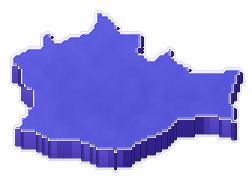
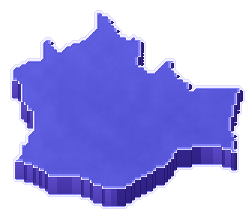
fix(mapa-dalias): cono simétrico solo en clic y proporción estandarizada de islas

diff --git a/apps/web/src/features/mapa-dalias/StateHologramCard.tsx b/apps/web/src/features/mapa-dalias/StateHologramCard.tsx
@@ -80,12 +80,12 @@ function computeHoloLayout(
   const stateSpanW = Math.max(14, (bMaxX - bMinX) * sx);
   const stateSpanH = Math.max(10, (bMaxY - bMinY) * sy);
 
-  const ax = state.anchor.x * sx;
-  const ay = (state.anchor.y - liftLogicalPx) * sy;
+  const rawAx = state.anchor.x * sx;
+  const rawAy = (state.anchor.y - liftLogicalPx) * sy;
 
-  // Escala de la isla voxel ampliada (~26-28% del ancho del mapa, respetando su proporción)
+  // Escala estandarizada de la isla voxel ampliada (~25-28% del mapa para ancho uniforme de lectura)
   const aspect = meta.height / meta.width;
-  const targetMaxDim = Math.min(295, Math.max(185, cw * 0.265));
+  const targetMaxDim = Math.min(290, Math.max(190, cw * 0.26));
   let w: number;
   let h: number;
   if (aspect >= 1) {
@@ -96,40 +96,45 @@ function computeHoloLayout(
     h = w * aspect;
   }
 
-  // Zona segura dentro del contenedor del mapa (evita logo INE arriba-izquierda y menú arriba-derecha)
-  const padX = Math.max(16, cw * 0.03);
-  const safeTopMin = Math.max(16, ch * 0.04);
-  const safeTopMax = Math.max(safeTopMin, ch - h - 12);
-  const beamGap = Math.max(46, ch * 0.115);
+  // Zona segura dentro del contenedor del mapa
+  const padX = Math.max(18, cw * 0.03);
+  const safeTopMin = Math.max(18, ch * 0.035);
+  const safeTopMax = Math.max(safeTopMin, ch - h - 14);
+  const beamGap = Math.max(44, ch * 0.11);
 
   let left: number;
   let top: number;
+  let ax = rawAx;
+  let ay = rawAy;
 
-  // Si el estado está en la mitad superior (ej. BC, Sonora, Chihuahua, Coahuila, NL, Sinaloa),
-  // proyectar lateralmente hacia el interior del mapa dentro de la franja vertical segura
-  const canFitAbove = ay - h - beamGap >= safeTopMin;
+  const canFitAbove = rawAy - h - beamGap >= safeTopMin;
 
   if (canFitAbove) {
+    // Caso estándar: la isla flota directamente arriba con el cono vertical
     const shiftX =
-      ax < cw * 0.36
-        ? w * 0.34
-        : ax > cw * 0.68
-        ? -w * 0.34
-        : w * 0.22;
-    left = Math.min(Math.max(padX, ax - w / 2 + shiftX), cw - w - padX);
-    top = Math.min(safeTopMax, Math.max(safeTopMin, ay - h - beamGap));
+      rawAx < cw * 0.36
+        ? w * 0.32
+        : rawAx > cw * 0.68
+        ? -w * 0.32
+        : w * 0.18;
+    left = Math.min(Math.max(padX, rawAx - w / 2 + shiftX), cw - w - padX);
+    top = Math.min(safeTopMax, Math.max(safeTopMin, rawAy - h - beamGap));
   } else {
-    const goRight = ax < cw * 0.52;
-    const horizGap = Math.max(54, cw * 0.065);
-    left = goRight
-      ? Math.min(cw - w - padX, ax + stateSpanW * 0.45 + horizGap)
-      : Math.max(padX, ax - stateSpanW * 0.45 - horizGap - w);
-    // Para estados muy arriba (BC, Sonora), bajar ligeramente la tarjeta hacia el centro
-    const idealTop = ay < ch * 0.28 ? ay + ch * 0.02 : ay - h * 0.42;
-    top = Math.min(safeTopMax, Math.max(safeTopMin, idealTop));
+    // Estados del norte (BC, Sonora, Chihuahua, Coahuila):
+    // 1) Anclar la base del haz en la mitad/tercio inferior del estado en el mapa para que el haz SIEMPRE suba
+    ay = Math.max(rawAy, ((bMinY + bMaxY * 2) / 3 - liftLogicalPx) * sy);
+    // 2) Colocar la isla en la zona segura superior, desplazada al interior (evita el logo INE a la izquierda)
+    const goRight = rawAx < cw * 0.52;
+    const horizGap = Math.max(35, cw * 0.045);
+    left = Math.round(
+      goRight
+        ? Math.min(cw - w - padX, rawAx + stateSpanW * 0.45 + horizGap)
+        : Math.max(padX, rawAx - stateSpanW * 0.45 - horizGap - w)
+    );
+    top = Math.round(safeTopMin + 4);
   }
 
-  // Eje central desde el ancla del estado en el mapa (A) hasta el polo visual de la pieza ampliada (C)
+  // Eje central desde la base del estado en el mapa (A) hasta el polo visual de la pieza ampliada (C)
   const cx = left + meta.visualCenter[0] * w;
   const cy = top + meta.visualCenter[1] * h;
 
@@ -143,14 +148,14 @@ function computeHoloLayout(
   const ny = ux;
 
   // Ancho en la base (proporcional al estado en el mapa, acotado para simetría limpia)
-  const rBase = Math.min(Math.max(12, Math.min(stateSpanW, stateSpanH) * 0.34), 24);
+  const rBase = Math.min(Math.max(12, Math.min(stateSpanW, stateSpanH) * 0.34), 22);
   // Ancho en el destino (dentro de la silueta sólida de la pieza ampliada)
   const radiusRatio = meta.coneRadiusRatio ?? 0.32;
   const rTop = Math.min(w, h) * radiusRatio;
 
   // Detener el eje ligeramente antes del centro visual para que el cono quede cubierto por la silueta
-  const tx = cx - ux * (rTop * 0.12);
-  const ty = cy - uy * (rTop * 0.12);
+  const tx = cx - ux * (rTop * 0.14);
+  const ty = cy - uy * (rTop * 0.14);
 
   const baseLeft: [number, number] = [ax - nx * rBase, ay - ny * rBase];
   const baseRight: [number, number] = [ax + nx * rBase, ay + ny * rBase];
@@ -180,9 +185,9 @@ export interface StateHologramCardProps {
 }
 
 export function StateHologramCard({ children, className }: StateHologramCardProps) {
-  const { data, selectedStateId, hoveredStateId } = usePixelMapContext();
-  const activeId = hoveredStateId || selectedStateId;
-  const state = data && activeId ? data.stateById.get(activeId) ?? null : null;
+  const { data, selectedStateId } = usePixelMapContext();
+  // El cono de luz y la proyección holográfica se activan ÚNICAMENTE al hacer clic (seleccionar un estado)
+  const state = data && selectedStateId ? data.stateById.get(selectedStateId) ?? null : null;
 
   const rootRef = useRef<HTMLDivElement>(null);
   const [size, setSize] = useState<{ w: number; h: number }>({ w: 0, h: 0 });

diff --git a/scripts/build-holos.ts b/scripts/build-holos.ts
@@ -176,10 +176,20 @@ function buildSingleStateHolo(st: StateGeo): { rgba: Buffer; OW: number; OH: num
 
   const spanX = Math.max(1e-6, maxX - minX);
   const spanY = Math.max(1e-6, maxY - minY);
-  const scale = TARGET_VOXEL_SPAN / Math.max(spanX, spanY);
+  const rawAspect = spanX / spanY;
 
-  const voxW = Math.max(24, Math.ceil(spanX * scale));
-  const voxH = Math.max(24, Math.ceil(spanY * scale));
+  // Estrategia A: Estandarización de proporción para zona de lectura (~260x230 px)
+  // Ensanchar la proporción horizontal de estados angostos (BC, BCS, Veracruz, Sinaloa, QRoo)
+  // garantizando un ancho mínimo cómodo sin perder la silueta icónica
+  const targetAspect = Math.max(0.82, Math.min(1.28, rawAspect));
+  const aspectBoostX = targetAspect / rawAspect;
+
+  const baseScale = TARGET_VOXEL_SPAN / Math.max(spanX * aspectBoostX, spanY);
+  const scaleX = baseScale * aspectBoostX;
+  const scaleY = baseScale;
+
+  const voxW = Math.max(66, Math.ceil(spanX * scaleX));
+  const voxH = Math.max(54, Math.ceil(spanY * scaleY));
   const W = voxW + PAD_VOXELS * 2;
   const H = voxH + PAD_VOXELS * 2 + EXT;
 
@@ -187,8 +197,8 @@ function buildSingleStateHolo(st: StateGeo): { rgba: Buffer; OW: number; OH: num
   const inGrid = (x: number, y: number) => x >= 0 && y >= 0 && x < W && y < H;
 
   const toGrid = ([x, y]: Pt): Pt => [
-    (x - minX) * scale + PAD_VOXELS,
-    (y - minY) * scale + PAD_VOXELS,
+    (x - minX) * scaleX + PAD_VOXELS,
+    (y - minY) * scaleY + PAD_VOXELS,
   ];
 
   const gridPolys = activePolys.map((poly) => poly.map((ring) => ring.map(toGrid)));

diff --git a/apps/web/src/features/mapa-dalias/PixelMap.tsx b/apps/web/src/features/mapa-dalias/PixelMap.tsx
@@ -585,8 +585,8 @@ export function PixelMap({
           setPixel(ly * width + x, topColor);
         }
 
-        // Contorno luminoso lavanda de 2px alrededor de la silueta activa en el mapa (como en mockup-hover-estado.jpg)
-        if (mode === 'hover' || mode === 'select') {
+        // Contorno luminoso lavanda de 2px alrededor de la silueta activa en el mapa ÚNICAMENTE al seleccionar (clic)
+        if (mode === 'select') {
           const glowInner = hexToU32('#F4F2FF', 235);
           const glowOuter = hexToU32('#B4B2FF', 135);
           for (let i = 0; i < touchedMaskIndices.length; i++) {
